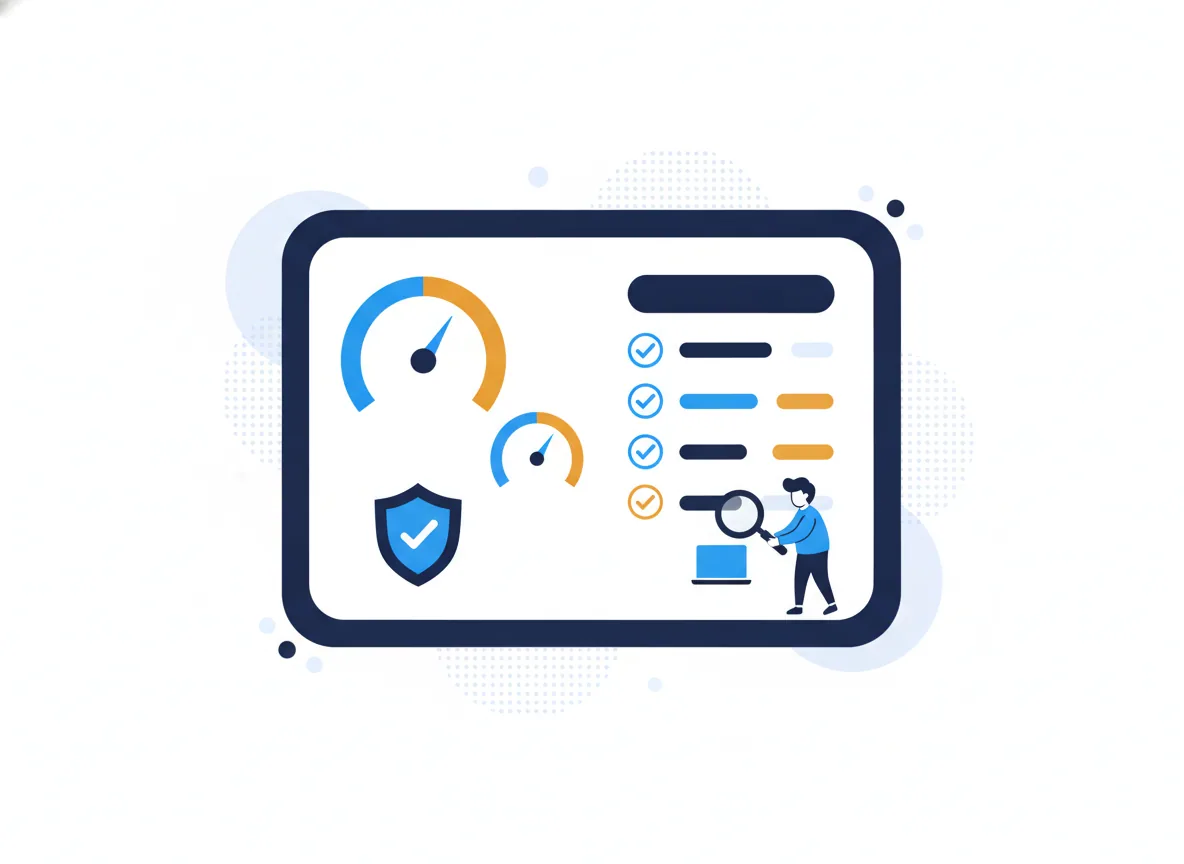
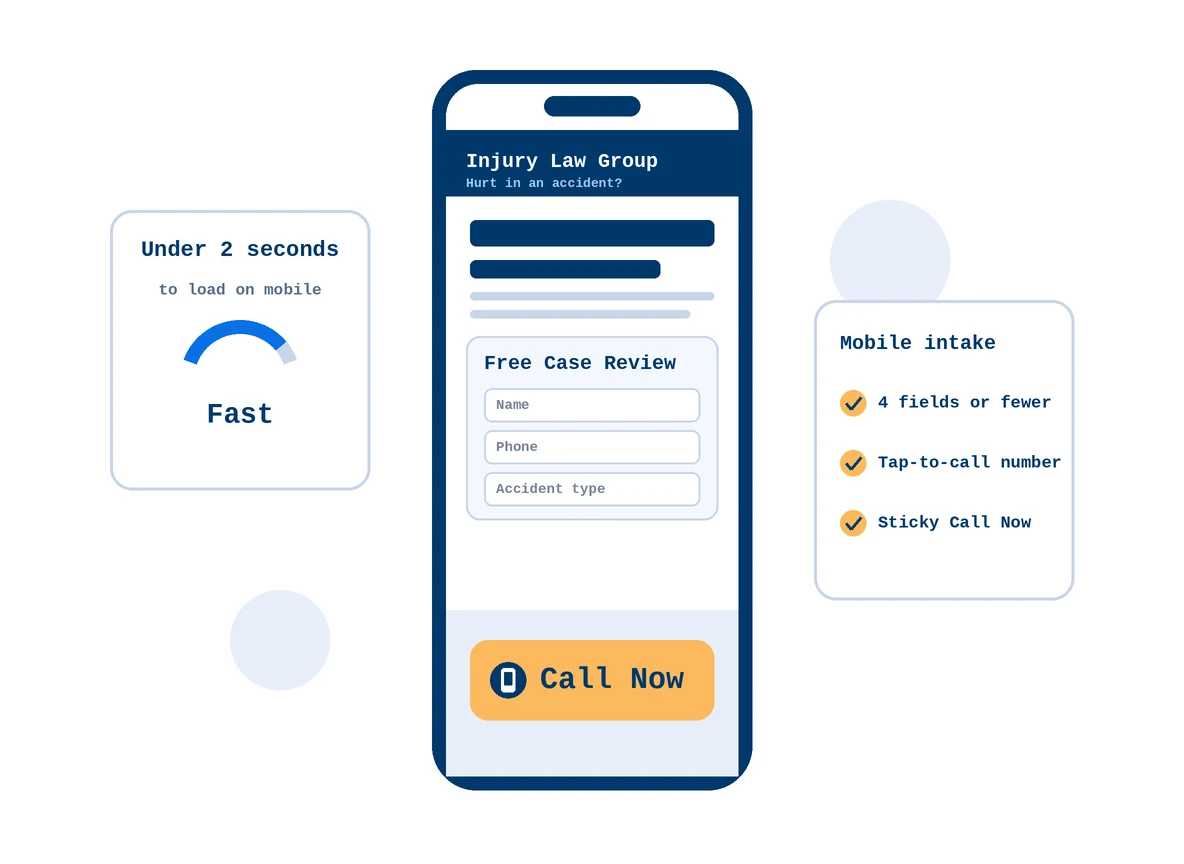
Blog QA fixes: PI website services blueprints post
- Fix internal links: hub link to /lawyers/personal-injury, drop stuffed anchor, cost-post link, anchor 'website services'
- Align prices to $5,000-$25,000 and add $500-$3,000/month to FAQ
- Shorten investment section and link to PI cost post
- Add state-bar costs line to contingency-fee message
- Rename headings and FAQ; remove 'cascade' wording
- New title tag, post-specific Twitter meta, new featured image and alt

Claude-Session: https://claude.ai/code/session_01Q4wtQazAkApnUaCRkNTWKn

diff --git a/src/app/[slug]/PostPage.tsx b/src/app/[slug]/PostPage.tsx
@@ -45,6 +45,14 @@ export function postMetadata(slug: string): Metadata {
       authors: [author.name],
       images: post.heroImage ? [{ url: post.heroImage }] : undefined,
     },
+    // Without this the root layout's agency-tagline twitter description leaks
+    // onto every article.
+    twitter: {
+      card: 'summary_large_image',
+      title: post.seoTitle ?? post.title,
+      description,
+      images: post.heroImage ? [post.heroImage] : undefined,
+    },
   };
 }
 
